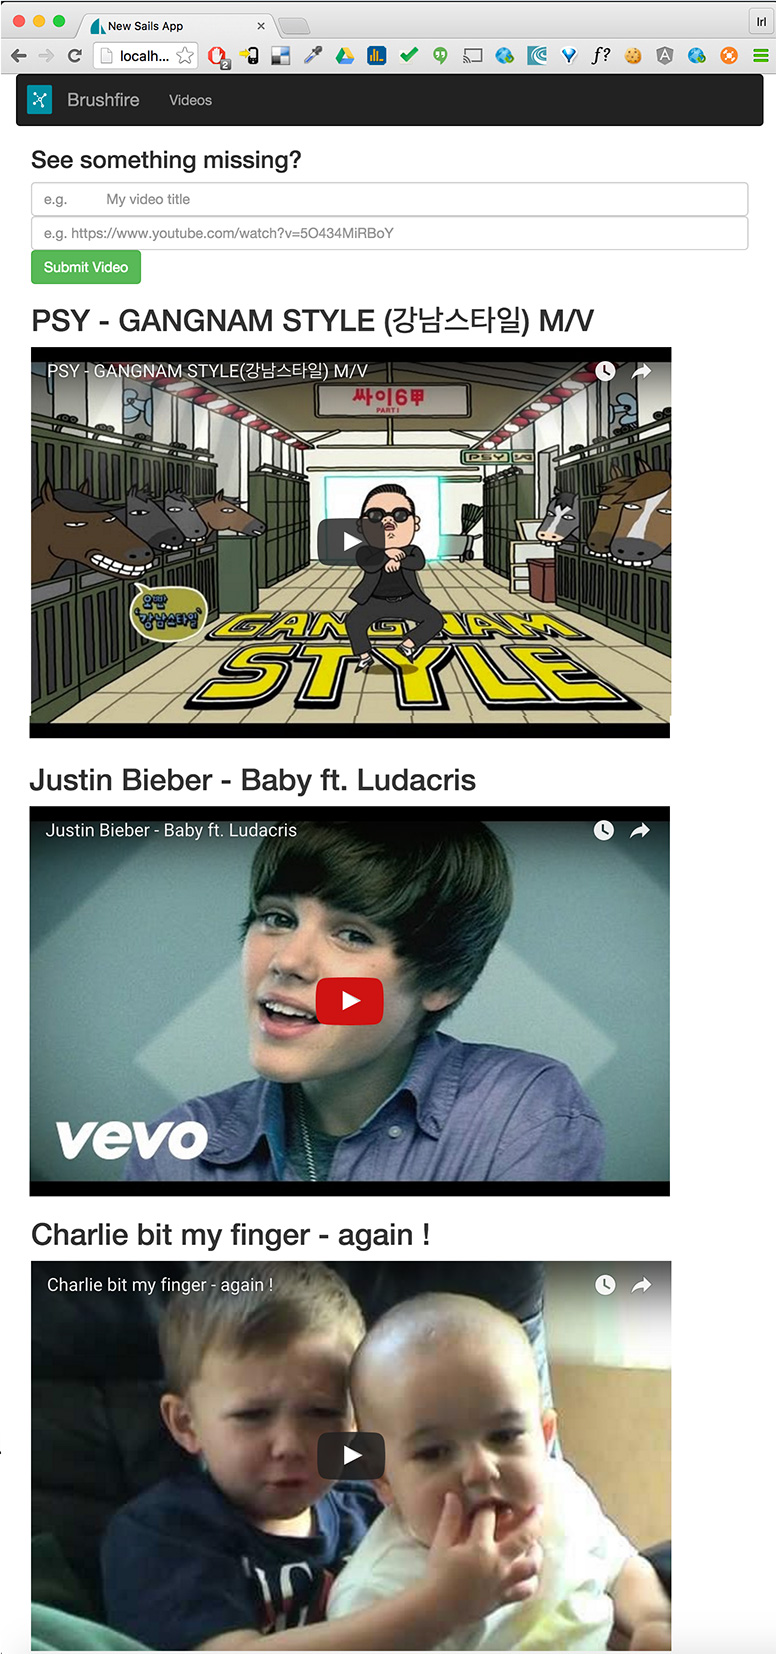
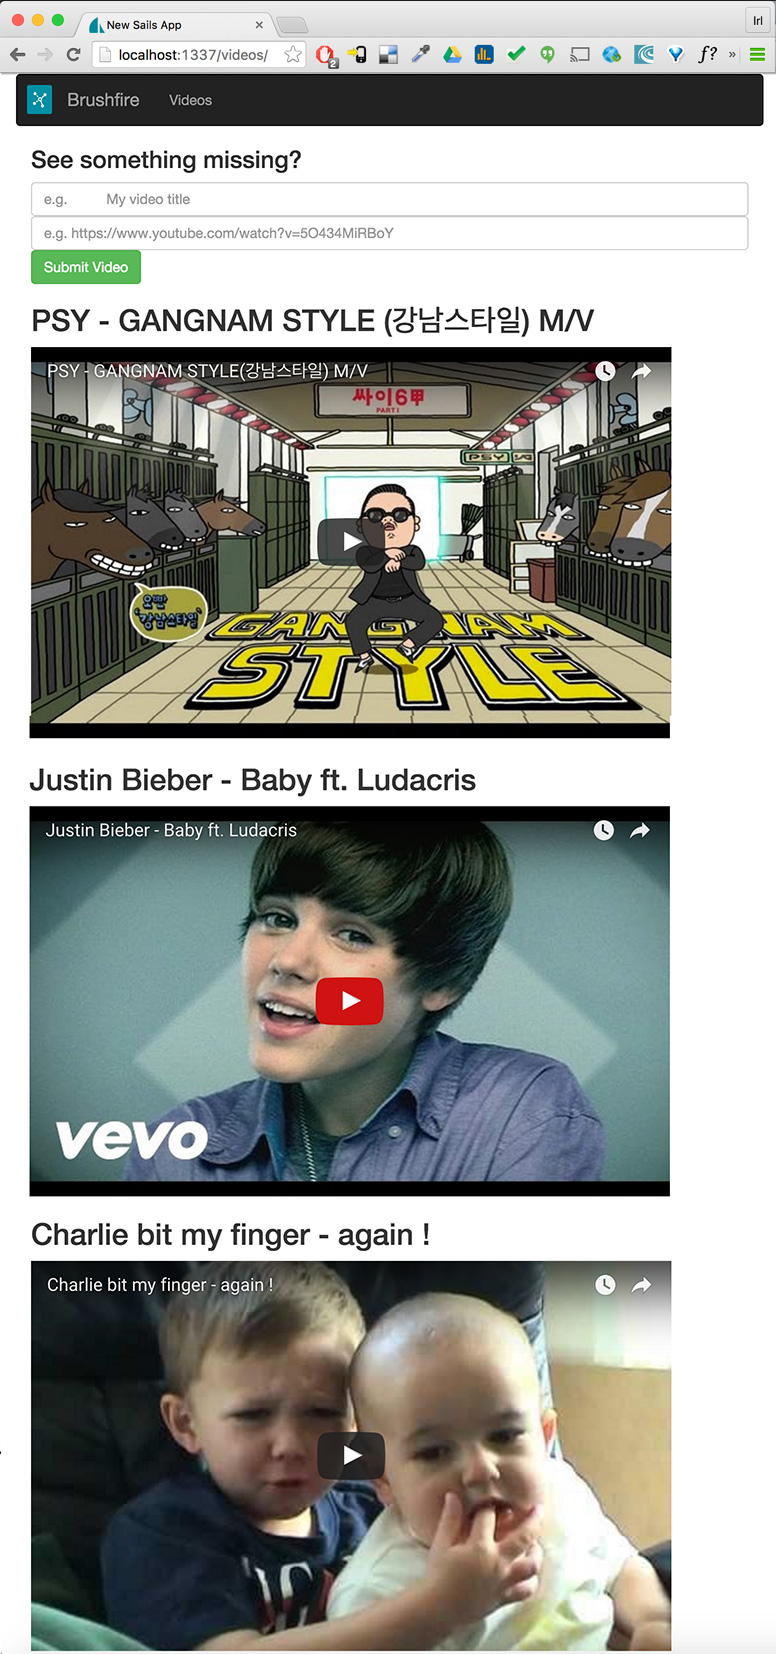
formatting

Changed region(s): [[0.0, 0.0, 1.0, 0.0617]]

diff --git a/mockups.html b/mockups.html
@@ -1,6 +1,7 @@
 <html>
   <head>
     <link rel="stylesheet" href="https://maxcdn.bootstrapcdn.com/bootstrap/3.3.6/css/bootstrap.min.css" integrity="sha384-1q8mTJOASx8j1Au+a5WDVnPi2lkFfwwEAa8hDDdjZlpLegxhjVME1fgjWPGmkzs7" crossorigin="anonymous">
+    <link rel="stylesheet" href="custom.css">
   </head>
   <body>
     <!-- Fixed navbar -->
@@ -25,7 +26,7 @@
           </div><!--/.nav-collapse -->
         </div>
       </nav>
-      <div class="container">
+      <div class="container first-container">
         <img src='./images/chap3-ss-videos-page-full.jpg' />
       </div>
       <script src="https://maxcdn.bootstrapcdn.com/bootstrap/3.3.6/js/bootstrap.min.js" integrity="sha384-0mSbJDEHialfmuBBQP6A4Qrprq5OVfW37PRR3j5ELqxss1yVqOtnepnHVP9aJ7xS" crossorigin="anonymous"></script>

diff --git a/custom.css b/custom.css
@@ -1,0 +1,3 @@
+.first-containe: {
+  margin-top: 20px;
+}
